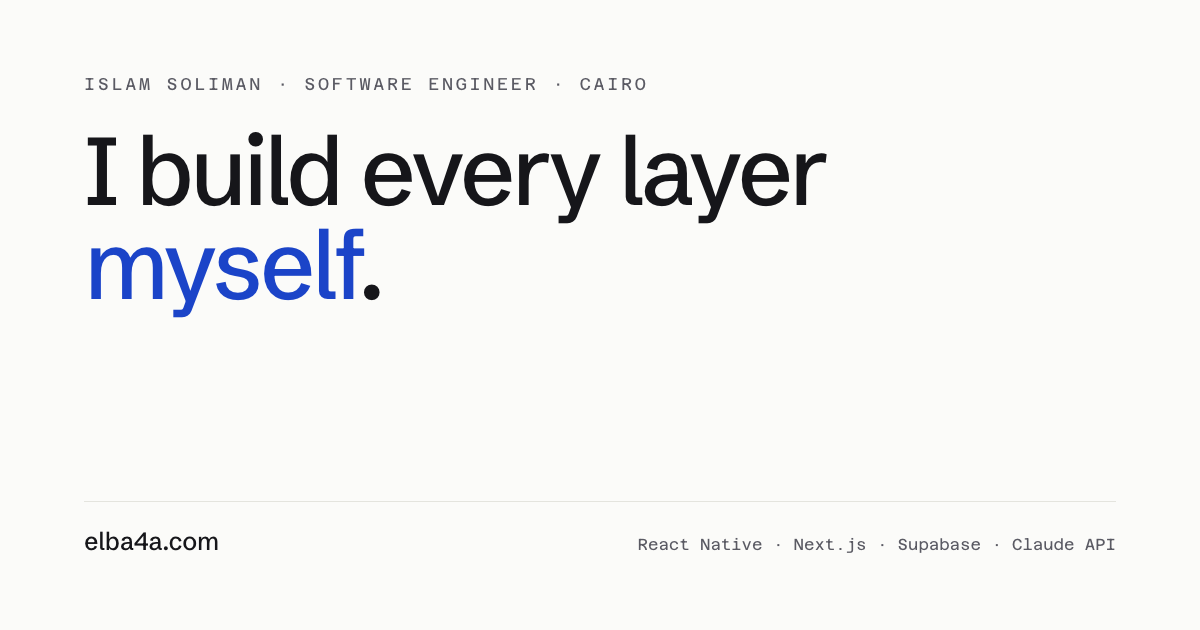
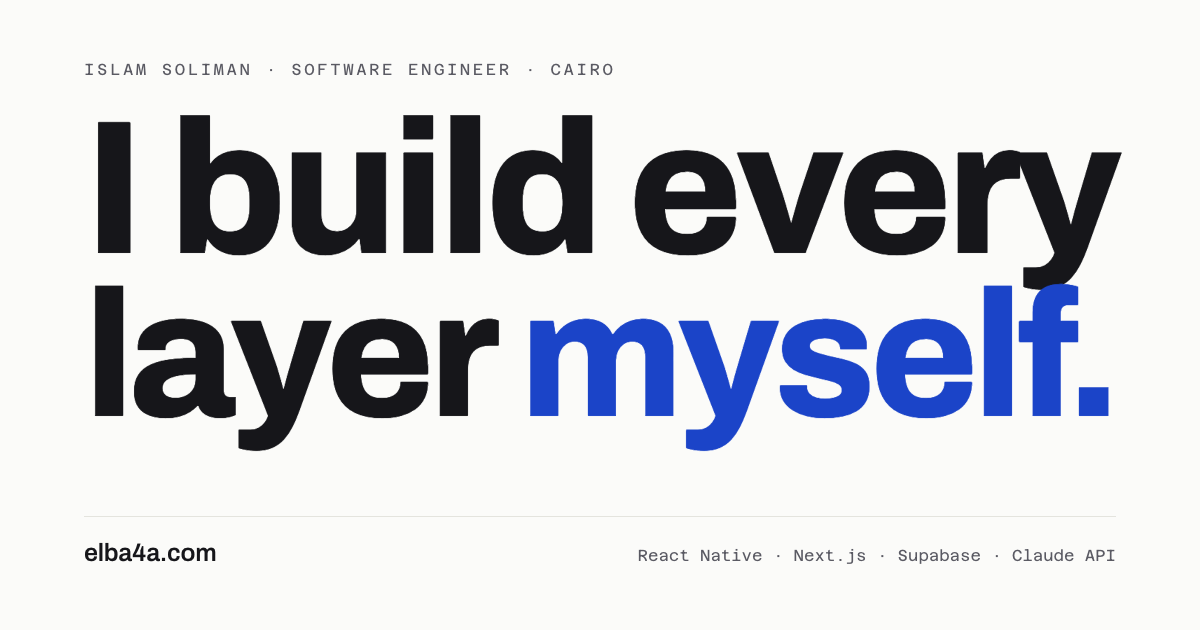
Social card: regenerate from the new design, and refuse to ship a wrong one
The card still carried Schibsted Grotesk and a loose-wrapping headline. It now
matches the page: Archivo, both lines fitted to the measure with the same cqi
values site.css uses.

tools/shoot-og.mjs replaces the raw Chrome command in the README, because this
image is on Islam's LinkedIn profile via the Featured card and it fails
silently in three ways:

- A file:// origin fails the font CORS check and the card ships in a system
  face with no error. The script asserts Archivo actually loaded.
- The lines are fitted, so a fallback face, a missing font-stretch range or a
  stale cqi value still lay out — just not flush. It measures both advances.
- --window-size is not the viewport. The first run wrote 1200x543 while
  og:image:height declares 630, and the picture looked fine. It now reads the
  written PNG's own IHDR and refuses anything but 1200x630.

Bumped to ?v=4 so scrapers refetch.

diff --git a/tools/og.html b/tools/og.html
@@ -1,24 +1,29 @@
 <!doctype html>
 <!-- Source for assets/img/og.png. Not shipped — the Dockerfile copies explicit
-     paths and tools/ is not one of them. Regenerate with the command in
-     README.md after changing anything here.
+     paths and tools/ is not one of them. Regenerate with tools/shoot-og.mjs,
+     which asserts the type is fitted and the real face loaded before it writes
+     the PNG.
 
      Render it over the local http server, not file://, so the @font-face files
      load; Chrome applies CORS to fonts and a file:// origin fails it, which
-     silently falls back to a system face and quietly changes the card. -->
+     silently falls back to a system face and quietly changes the card.
+
+     LinkedIn's Featured card pulls this image, so changing it changes what
+     Islam's profile shows. -->
 <html lang="en" dir="ltr">
 <head>
 <meta charset="utf-8">
 <style>
   @font-face {
-    font-family: "Schibsted Grotesk";
-    src: url("/assets/fonts/schibsted-grotesk-latin.woff2") format("woff2");
-    font-weight: 400 900;
+    font-family: "Archivo";
+    src: url("/assets/fonts/archivo-latin.woff2") format("woff2");
+    font-weight: 100 900;
+    font-stretch: 62% 125%;
   }
   @font-face {
     font-family: "Azeret Mono";
     src: url("/assets/fonts/azeret-mono-latin.woff2") format("woff2");
-    font-weight: 400 600;
+    font-weight: 100 900;
   }
 
   * { box-sizing: border-box; margin: 0; }
@@ -26,35 +31,41 @@
   body {
     background: #FBFBF9;
     color: #16161A;
-    font-family: "Schibsted Grotesk", system-ui, sans-serif;
-    padding: 74px 84px;
+    font-family: "Archivo", system-ui, sans-serif;
+    padding: 60px 84px 64px;
     display: flex;
     flex-direction: column;
     justify-content: space-between;
-    position: relative;
     overflow: hidden;
     -webkit-font-smoothing: antialiased;
   }
-  .top, .btm { position: relative; }
+
+  /* The same container the page measures against, so the same cqi values
+     produce the same fit. If check-fit.mjs ever re-solves them, they change in
+     exactly two places: site.css and here. */
+  .top { container-type: inline-size; }
+
   .eyebrow {
     font-family: "Azeret Mono", ui-monospace, monospace;
-    font-size: 17px;
+    font-size: 16px;
     letter-spacing: .16em;
     text-transform: uppercase;
     color: #5A5A63;
   }
   h1 {
-    font-size: 96px;
-    font-weight: 500;
-    line-height: .98;
-    letter-spacing: -.038em;
-    margin-top: 30px;
-    max-width: 13ch;
+    font-weight: 760;
+    line-height: .90;
+    margin-top: 26px;
+    white-space: nowrap;
   }
+  h1 .ln { display: block; letter-spacing: -.032em; }
+  h1 .ln1 { font-size: 18.38cqi; }
+  h1 .ln2 { font-size: 17.39cqi; }
   h1 em { font-style: normal; color: #1B44C8; }
-  .rule { height: 1px; background: #E4E4DE; margin-bottom: 24px; }
+
+  .rule { height: 1px; background: #E4E4DE; margin-bottom: 22px; }
   .btm { display: flex; justify-content: space-between; align-items: baseline; gap: 24px; }
-  .dom { font-size: 25px; font-weight: 500; letter-spacing: -.01em; }
+  .dom { font-size: 25px; font-weight: 600; letter-spacing: -.01em; }
   .stack {
     font-family: "Azeret Mono", ui-monospace, monospace;
     font-size: 16px;
@@ -65,7 +76,10 @@
 <body>
   <div class="top">
     <p class="eyebrow">Islam Soliman · Software engineer · Cairo</p>
-    <h1>I build every layer <em>myself</em>.</h1>
+    <h1>
+      <span class="ln ln1">I build every</span>
+      <span class="ln ln2">layer <em>myself.</em></span>
+    </h1>
   </div>
   <div>
     <div class="rule"></div>

diff --git a/index.html b/index.html
@@ -18,7 +18,7 @@
 <meta property="og:description" content="I build whole products alone: the app, the web front end, the schema, the Edge Functions, and the container they ship in.">
 <meta property="og:url" content="https://elba4a.com/">
 <meta property="og:site_name" content="elba4a.com">
-<meta property="og:image" content="https://elba4a.com/assets/img/og.png?v=3">
+<meta property="og:image" content="https://elba4a.com/assets/img/og.png?v=4">
 <meta property="og:image:type" content="image/png">
 <meta property="og:image:width" content="1200">
 <meta property="og:image:height" content="630">

diff --git a/README.md b/README.md
@@ -12,6 +12,7 @@ assets/js/site.js     scrollspy and the prototype's tablist
 assets/fonts/         two variable .woff2 subsets, self-hosted
 assets/img/           nine app screens, the Muhrah emblem, a social card, an SVG favicon
 tools/og.html         source for the social card (not shipped)
+tools/shoot-og.mjs    renders the card, refusing a wrong one (not shipped)
 tools/cdp.mjs         DevTools-protocol driver, Node stdlib only (not shipped)
 tools/fit-test.html   the type-fitting rig; also re-derives the sizes (not shipped)
 tools/check-fit.mjs   can Archivo hold flush lines at all (not shipped)
@@ -190,16 +191,25 @@ their own `--ink` ground. Re-measure before changing any of them.
 asset needs its `?v=N` bumped in `index.html`.
 
 **The social card is generated, not drawn.** `tools/og.html` is the source and the PNG is a
-screenshot of it. Render it **over the local http server, not `file://`** — Chrome applies
-CORS to fonts, a `file://` origin fails it, and the card silently falls back to a system
-face:
+screenshot of it:
 
 ```bash
-CHROME="/Applications/Google Chrome.app/Contents/MacOS/Google Chrome"
-"$CHROME" --headless --disable-gpu --hide-scrollbars --force-device-scale-factor=1 \
-  --virtual-time-budget=4000 --window-size=1200,630 \
-  --screenshot="assets/img/og.png" "http://localhost:8145/tools/og.html"
+node tools/shoot-og.mjs
 ```
+
+It refuses to write a card that is wrong in either of the two ways this one fails silently.
+**It must render over the local http server, never `file://`** — Chrome applies CORS to
+fonts, a `file://` origin fails it, and the card falls back to a system face with no error;
+the script asserts Archivo actually loaded. And the display lines are fitted to the measure,
+so a fallback face, a missing `font-stretch` range or a stale `cqi` value all still lay out,
+just not flush — it measures both advances instead.
+
+It also reads the written PNG's own `IHDR`. `--window-size` is not the viewport: the first
+run captured 1200x543 while `og:image:height` declares 630, and nothing about the picture
+said so.
+
+The two `cqi` values in `og.html` are the same ones in `site.css`. If `check-fit.mjs`
+re-solves them, they change in both places.
 
 `tools/icon.html` holds a **copy** of the favicon artwork, not an `<img>` of it — a
 `viewBox`-only SVG has no intrinsic size, so it renders at the browser default instead of
